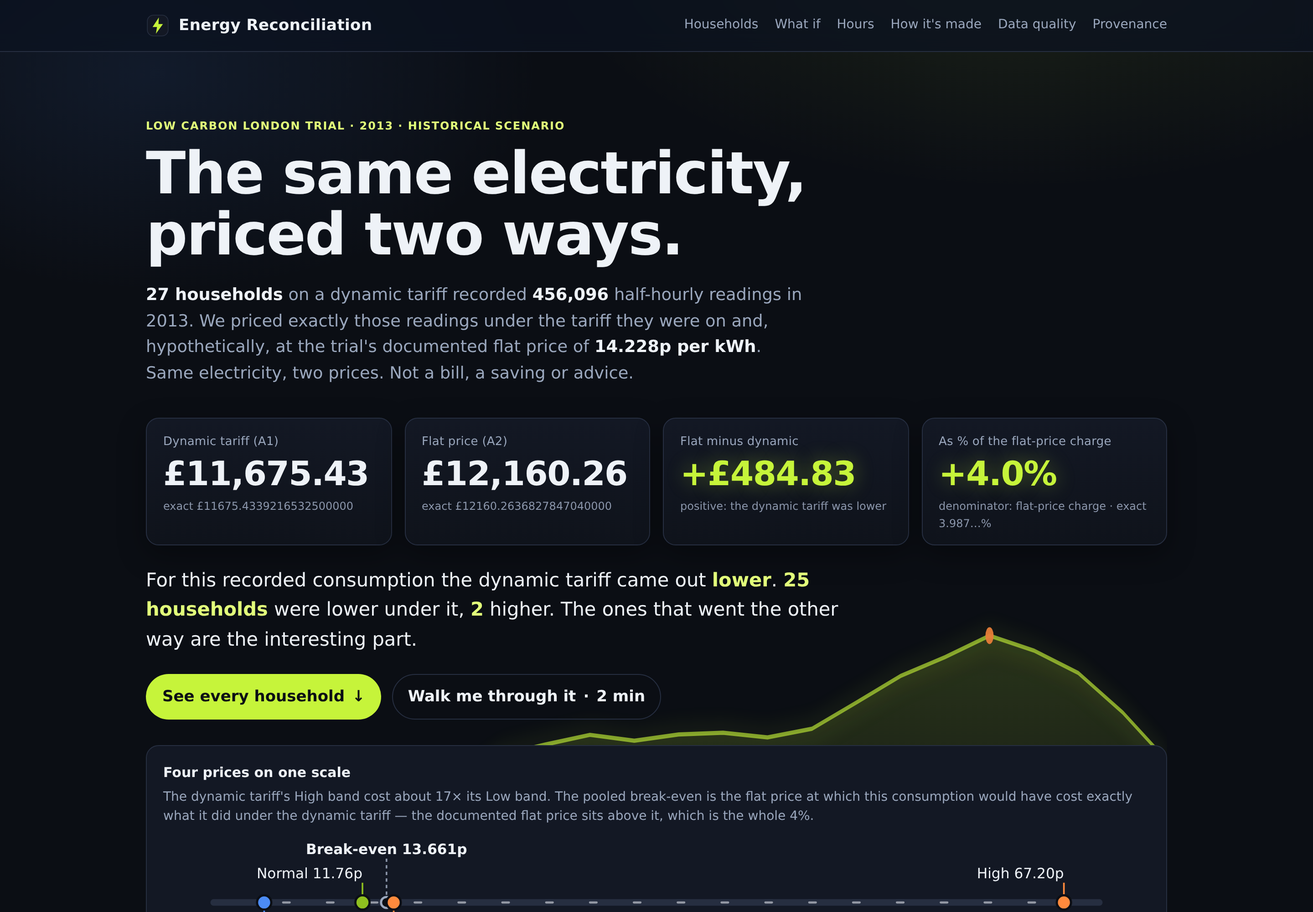
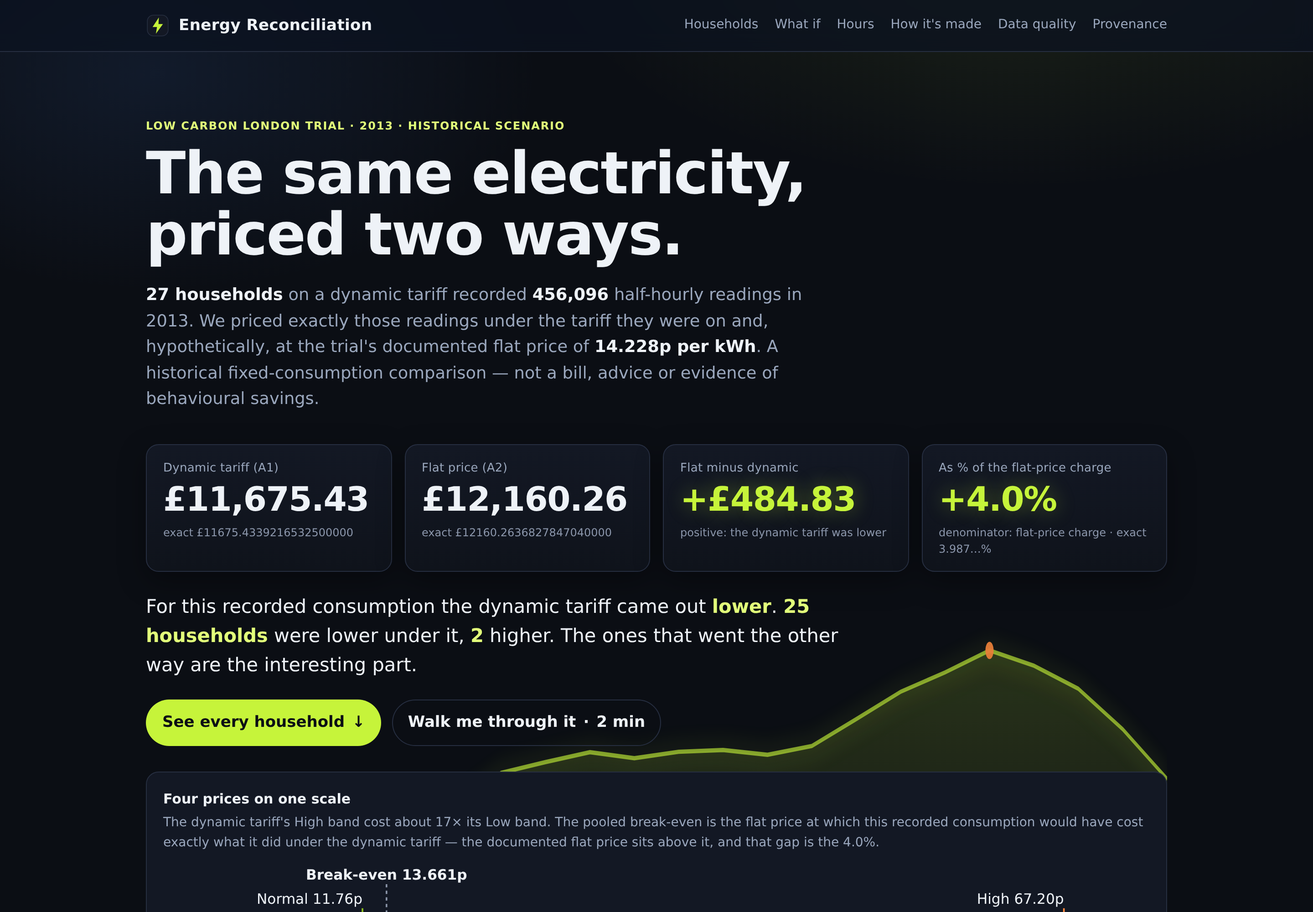
web: say only what the evidence establishes on the public surface
Accuracy pass over the front door's copy, walkthrough, metadata and the
documents that repeat its claims. No figure, bundle byte or calculation
identity changes (bundle sha256 3296b55f… unchanged).

- Clock time: "the evening" is gone. The schedule counts in the bundle show
  High half hours in every timestamp-label hour, concentrated in labels
  17:00 to 22:59 (408 of 788, 51.8%). The sentence is now derived from those
  counts (lib/hours.ts, tested against the committed bundle) and states that
  no timezone or interval convention is applied. Charged kWh is described as
  highest in those label hours, not as an evening peak.
- Whole-zero days: "costs nothing and raises no error" becomes "contributes
  zero consumption-based charge in this scenario; whether a billing system
  would flag the pattern was not investigated". Neighbours are "recorded
  non-zero usable days" (38 of 52 runs, as ANL-004 measures), not "normal
  usage".
- Source-data conditions are "handled explicitly", not "things that would
  silently corrupt" the total.
- Hero limitation: "A historical fixed-consumption comparison — not a bill,
  advice or evidence of behavioural savings", repeated in the page metadata;
  "London households" becomes "Low Carbon London trial households".
- Browser check: the page checks the exported payload against its pinned
  SHA-256 digest; it does not rebuild the result or rerun the build. The card,
  tour step, loading and error states, README, deployment guide and web
[…]

diff --git a/web/src/App.tsx b/web/src/App.tsx
@@ -15,6 +15,7 @@ import { Tour, type TourStep } from "./components/Tour";
 import { useInView, useScrollProgress } from "./hooks";
 import { Insight } from "./components/Insight";
 import { highRank, highShare } from "./lib/households";
+import { highConcentration, labelRange } from "./lib/hours";
 import { integer, money } from "./lib/format";
 
 type State =
@@ -70,12 +71,18 @@ export function Page({ loaded }: { loaded: Loaded }) {
   const o = c.outcomes_under_dynamic;
   const [tour, setTour] = useState(false);
   const [tourRun, setTourRun] = useState(0);
+  // Where the schedule put its High band, by hour of the timestamp label as written. The
+  // sentence is built from the counts, so it can only say what the bundle holds.
+  const hc = highConcentration(bundle.hour_bands);
+  const highHours = hc
+    ? `High-price half hours ${hc.everyHour ? "occurred in every label hour but " : ""}were concentrated in timestamp labels from ${labelRange(hc)}: ${hc.slots} of the schedule's ${hc.total} (${hc.sharePct}%)`
+    : "The schedule's High-price half hours are not summarised here";
   const steps: TourStep[] = [
-    { id: "top", title: "The question", text: `${c.households} households, one year of real readings, two prices. The dynamic tariff came out ${money(Math.abs(c.flat_minus_dynamic.display))} (${c.pct_of_flat.display}%) ${c.flat_minus_dynamic.display > 0 ? "lower" : "higher"} for the electricity they actually used.` },
+    { id: "top", title: "The question", text: `${c.households} households, one year of recorded readings, two prices. On the same recorded consumption the dynamic scenario came out ${money(Math.abs(c.flat_minus_dynamic.display))} (${c.pct_of_flat.display?.toFixed(1) ?? "—"}%) ${c.flat_minus_dynamic.display > 0 ? "lower" : "higher"} than the flat price.` },
     { id: "households", title: "Every household", text: `${o.lower} were lower under the dynamic tariff and ${o.higher} higher. Click any bar, or use the arrow keys, to see where that household's electricity fell.` },
     { id: "what-if", title: "What if", text: "Each household has a break-even flat price. Slide to see how many would have come out ahead at any other flat price — a comparison, not a recalculation." },
-    { id: "hours", title: "The hours", text: "The expensive band clustered in the evening, and so did the electricity. That is timing, not proof of a response." },
-    { id: "pipeline", title: "How it's made", text: "Three million readings, every one charged or excluded with a reason, a ladder that must add up, a sealed build — and this page verifying its own data." },
+    { id: "hours", title: "The hours", text: `${highHours} — label hours as written, no timezone applied. The charged electricity was highest in those hours too. That is timing, not proof of a response.` },
+    { id: "pipeline", title: "How it's made", text: "Three million readings, every one charged or excluded with a reason, a ladder that must add up, a sealed build — and this page checking its exported data against a pinned digest before showing it." },
     { id: "provenance", title: "The small print", text: "Two assumptions, the identity of the build behind every number, the licence, and what this does not show." },
   ];
 
@@ -196,8 +203,9 @@ export function Page({ loaded }: { loaded: Loaded }) {
                   </button>
                 ))}
               <p className="hint">
-                Small in pounds, but real: both paid slightly more under the dynamic tariff because more of their
-                electricity fell in the 67.2p half hours. The dynamic tariff was not cheaper for everyone.
+                Small in pounds, but real in the comparison: both came out slightly higher under the dynamic scenario
+                because more of their electricity fell in the 67.2p half hours. The dynamic tariff was not lower for
+                every household.
               </p>
             </div>
           </div>
@@ -209,7 +217,7 @@ export function Page({ loaded }: { loaded: Loaded }) {
         <Reveal
           id="hours"
           title="Where the expensive half hours were"
-          sub="The dynamic schedule announced each day's bands a day ahead; the High band clustered in the evening. So did the electricity — which is a coincidence of timing in this data, not evidence that anyone responded to the price."
+          sub={`The dynamic schedule announced each day's bands a day ahead. ${highHours} — hours of the label as written, with no timezone or interval convention applied, so this is not a claim about clock time. The charged electricity was highest in those label hours too, which is a coincidence of timing in this data, not evidence that anyone responded to the price.`}
         >
           <HourRibbon hourBands={bundle.hour_bands} />
         </Reveal>
@@ -217,7 +225,7 @@ export function Page({ loaded }: { loaded: Loaded }) {
         <Reveal
           id="pipeline"
           title="How three million readings become one reproducible number"
-          sub="Every reading is either charged or excluded for a stated reason, the ladder has to add up, the build is sealed only when all of its models and tests pass, and this page verifies the data it was given before showing it."
+          sub="Every reading is either charged or excluded for a stated reason, the ladder has to add up, the build is sealed only when all of its models and tests pass, and this page checks the exported data against its pinned digest before showing it."
         >
           <Pipeline bundle={bundle} digest={loaded.digest} />
         </Reveal>
@@ -225,7 +233,7 @@ export function Page({ loaded }: { loaded: Loaded }) {
         <Reveal
           id="quality"
           title="What was found on the way"
-          sub="Getting a tariff number right meant counting the things that would silently corrupt it — and a few things that turned out to be findings in their own right."
+          sub="Getting a tariff number right meant counting the source-data conditions the calculation handles explicitly — and a few things that turned out to be findings in their own right."
         >
           <Quality bundle={bundle} />
         </Reveal>
@@ -259,7 +267,7 @@ export default function App({ base }: { base?: string }) {
       <div className="state wrap" role="status" aria-live="polite">
         <div>
           <div className="spinner" aria-hidden="true" />
-          <p>Loading and verifying the data…</p>
+          <p>Loading the data and checking its digest…</p>
         </div>
       </div>
     );
@@ -268,11 +276,11 @@ export default function App({ base }: { base?: string }) {
     return (
       <div className="state wrap" role="alert">
         <div className="card">
-          <h2 style={{ marginTop: 0 }}>The data could not be verified</h2>
+          <h2 style={{ marginTop: 0 }}>The data did not match its pinned digest</h2>
           <p className="warn">{state.message}</p>
           <p className="hint">
-            Nothing is shown in its place: a number that failed verification is not a number. The published figures are
-            in the <a href="https://github.com/Hammamelsh/energy-reconciliation">repository</a>.
+            Nothing is shown in its place: a figure whose data failed the integrity check is not shown. The published
+            figures are in the <a href="https://github.com/Hammamelsh/energy-reconciliation">repository</a>.
           </p>
         </div>
       </div>

diff --git a/web/src/components/BreakEven.tsx b/web/src/components/BreakEven.tsx
@@ -2,6 +2,7 @@ import type { Comparison } from "../lib/bundle";
 import { countAt } from "../lib/breakeven";
 import { EMBER, LINE, NEUTRAL, VOLT } from "../lib/palette";
 import { pence } from "../lib/format";
+import { useMediaQuery } from "../hooks";
 
 export function BreakEven({
   comparison,
@@ -12,6 +13,7 @@ export function BreakEven({
   value: number;
   onChange: (v: number) => void;
 }) {
+  const compact = useMediaQuery("(max-width: 700px)");
   const hh = comparison.per_household;
   const flat = Number(comparison.flat_price.pence_per_kwh);
   const pooled = comparison.breakeven_flat_price.display ?? flat;
@@ -30,8 +32,8 @@ export function BreakEven({
       </p>
       <label htmlFor="flat-slider" className="big">
         At a flat price of <span className="ember">{value.toFixed(3)}p</span> per kWh,{" "}
-        <span className="volt">{counts.lower}</span> of {hh.length} households would have paid less on the
-        dynamic tariff, {counts.higher} more{counts.equal ? `, ${counts.equal} the same` : ""}.
+        <span className="volt">{counts.lower}</span> of {hh.length} households come out lower under the dynamic
+        scenario, {counts.higher} higher{counts.equal ? `, ${counts.equal} the same` : ""}.
       </label>
       <input
         id="flat-slider"
@@ -45,17 +47,19 @@ export function BreakEven({
         aria-valuetext={`${value.toFixed(3)} pence per kWh: ${counts.lower} lower, ${counts.higher} higher`}
       />
       <div className="ticks" aria-hidden="true">
-        <svg viewBox={`0 0 ${W} 46`}>
+        {/* The value label sits on its own row under the reference circles, so it cannot
+            overlap them when the slider rests exactly on a preset. */}
+        <svg viewBox={`0 0 ${W} 58`}>
           <line x1={10} x2={W - 10} y1={20} y2={20} stroke={LINE} strokeWidth={2} />
           {evens.map((p, i) => (
             <line key={i} x1={x(p)} x2={x(p)} y1={12} y2={28} stroke={p < value ? VOLT : p > value ? EMBER : NEUTRAL} strokeWidth={2} />
           ))}
           <line x1={x(value)} x2={x(value)} y1={4} y2={36} stroke="#fff" strokeWidth={2} />
-          <text x={x(value)} y={45} fontSize={11} fill="#fff" textAnchor="middle">
-            {value.toFixed(3)}p
-          </text>
           <circle cx={x(flat)} cy={34} r={4} fill="none" stroke={EMBER} strokeWidth={2} />
           <circle cx={x(pooled)} cy={34} r={4} fill="none" stroke={NEUTRAL} strokeWidth={2} />
+          <text x={x(value)} y={compact ? 56 : 54} fontSize={compact ? 20 : 11} fill="#fff" textAnchor="middle">
+            {value.toFixed(3)}p
+          </text>
         </svg>
       </div>
       <div className="toolbar">

diff --git a/web/index.html b/web/index.html
@@ -8,7 +8,7 @@
     <title>The same electricity, priced two ways — Energy Reconciliation</title>
     <meta
       name="description"
-      content="27 London households' 2013 half-hourly readings priced under the dynamic tariff they were on and at the trial's flat price: a 4.0% difference, 25 lower and 2 higher — with every household, its coverage, and the evidence behind the result."
+      content="456,096 half-hourly readings from 27 Low Carbon London trial households, priced under the dynamic tariff they were on and hypothetically at the trial's flat price: 4.0% lower under the dynamic scenario, 25 households lower and 2 higher. A historical fixed-consumption comparison, not a bill — every household shown, with its coverage and the evidence behind the result."
     />
     <link rel="icon" href="/favicon.svg" type="image/svg+xml" />
     <link rel="canonical" href="%VITE_SITE_URL%/" />
@@ -17,7 +17,7 @@
     <meta property="og:title" content="The same electricity, priced two ways" />
     <meta
       property="og:description"
-      content="One year of real smart-meter readings from 27 London households, priced under a dynamic tariff and at a flat price. Historical scenario, not a bill — every household shown."
+      content="One year of recorded smart-meter readings from 27 Low Carbon London trial households, priced under a dynamic tariff and at a flat price. A historical fixed-consumption comparison, not a bill — every household shown."
     />
     <meta property="og:url" content="%VITE_SITE_URL%/" />
     <meta property="og:image" content="%VITE_SITE_URL%/og.png" />
@@ -32,7 +32,7 @@
         "@context": "https://schema.org",
         "@type": "WebPage",
         "name": "The same electricity, priced two ways",
-        "description": "27 London households' 2013 half-hourly readings priced under a dynamic tariff and at a flat price. Historical scenario, not a bill.",
+        "description": "2013 half-hourly readings from 27 Low Carbon London trial households, priced under a dynamic tariff and at a flat price. A historical fixed-consumption comparison, not a bill.",
         "isBasedOn": {
           "@type": "Dataset",
           "name": "SmartMeter Energy Consumption Data in London Households",

diff --git a/web/src/components/Quality.tsx b/web/src/components/Quality.tsx
@@ -38,12 +38,15 @@ export function Quality({ bundle }: { bundle: Bundle }) {
             <div className="row"><span>households affected</span><b>{z.households_with_zero_days} of {z.households}</b></div>
             <div className="row"><span>runs of consecutive zero days</span><b>{z.runs}</b></div>
             <div className="row"><span>runs of four weeks or more</span><b>{z.runs_28_days_or_more}</b></div>
-            <div className="row"><span>runs with normal usage on both sides</span><b>{z.runs_bounded_by_nonzero_usable_days} of {z.runs}</b></div>
+            <div className="row"><span>runs bounded on both sides by recorded non-zero usable days</span><b>{z.runs_bounded_by_nonzero_usable_days} of {z.runs}</b></div>
             <div className="row"><span>longest run</span><b>{z.longest_run_days} days</b></div>
           </div>
           <p className="hint">
-            A day of exact zeros costs nothing and raises no error — which is why it is worth finding. Why the days are
-            zero is {z.cause}. These households are on the flat rate; none is in the tariff comparison.
+            A day of recorded zeros contributes zero consumption-based charge in this scenario; whether a billing system
+            would flag the pattern was not investigated. Why the days are zero is {z.cause}.{" "}
+            {z.runs_bounded_by_nonzero_usable_days} of {z.runs} runs were immediately bounded on both sides by recorded
+            non-zero usable days. All {z.households_with_zero_days} households are in the flat-rate group; none is in
+            the tariff comparison.
           </p>
         </div>
       )}
@@ -69,7 +72,8 @@ export function Quality({ bundle }: { bundle: Bundle }) {
             </div>
             <p className="hint">
               {f.holdout.scored_predictions_per_model} scored predictions per model. Every prediction uses only data dated on or
-              before its origin. A retrospective, clean-data cohort — a floor for accuracy, not a forecast product.
+              before its origin. A retrospective benchmark on clean runs — not an operational evaluation, not a forecast
+              product.
             </p>
           </>
         ) : (

diff --git a/web/src/components/HouseholdDetail.tsx b/web/src/components/HouseholdDetail.tsx
@@ -74,7 +74,7 @@ export function HouseholdDetail({ household: h, flatPence, highRank, total }: { 
           <span key={b.band} className={`band-${b.band}`} style={{ width: `${b.consumption_share_pct}%` }} title={`${b.band}: ${b.consumption_share_pct}% of kWh`} />
         ))}
       </div>
-      <div style={{ fontSize: 13, color: "var(--muted)" }}>What it paid for, by price band</div>
+      <div style={{ fontSize: 13, color: "var(--muted)" }}>Where its scenario charge fell, by price band</div>
       <div className="stack" role="img" aria-label={`Charge share by band: ${bands.map((b) => `${b.band} ${b.charge_share_pct}%`).join(", ")}`}>
         {bands.map((b) => (
           <span key={b.band} className={`band-${b.band}`} style={{ width: `${b.charge_share_pct}%` }} title={`${b.band}: ${b.charge_share_pct}% of charge`} />
@@ -94,11 +94,11 @@ export function HouseholdDetail({ household: h, flatPence, highRank, total }: { 
           const share = high?.consumption_share_pct ?? 0;
           const chargeShare = high?.charge_share_pct ?? 0;
           const pos = highRank === 1 ? "the largest of any household" : highRank === total ? "the smallest of any household" : `rank ${highRank} of ${total}`;
-          return `${share.toFixed(1)}% of its electricity fell in High-price half hours — ${pos} — and that ${share.toFixed(1)}% became ${chargeShare.toFixed(1)}% of what it paid. ${
+          return `${share.toFixed(1)}% of its electricity fell in High-price half hours — ${pos} — and that ${share.toFixed(1)}% became ${chargeShare.toFixed(1)}% of its scenario charge. ${
             h.outcome_under_dynamic === "higher"
-              ? "Enough to tip it: the flat price would have been cheaper for this household."
+              ? "Enough to tip it: on this recorded consumption the flat price comes out lower."
               : h.outcome_under_dynamic === "lower"
-                ? "Not enough to outweigh the cheap Low and Normal hours, so the dynamic tariff was lower."
+                ? "Not enough to outweigh the cheaper Low and Normal half hours, so the dynamic scenario comes out lower."
                 : "Exactly balanced."
           }`;
         })()}

diff --git a/web/src/components/Pipeline.tsx b/web/src/components/Pipeline.tsx
@@ -53,7 +53,7 @@ export function Pipeline({ bundle, digest }: { bundle: Bundle; digest: string })
         <div className="card">
           <h3>Built and sealed</h3>
           <div className="mini">
-            <div className="row"><span>dbt build</span><b>{p.required_nodes_total} of {p.required_nodes_total} nodes</b></div>
+            <div className="row"><span>required build</span><b>{p.required_nodes_total} nodes, all passed</b></div>
             <div className="row"><span>run</span><b className="mono">{String(p.run_id).slice(0, 22)}…</b></div>
             <div className="row"><span>published as</span><b>{String(p.version)}</b></div>
             <div className="row"><span>version file sha256</span><b className="mono">{shortDigest(String(p.file_sha256))}</b></div>
@@ -68,13 +68,17 @@ export function Pipeline({ bundle, digest }: { bundle: Bundle; digest: string })
           </p>
         </div>
         <div className="card">
-          <h3>Verified in your browser</h3>
+          <h3>Checked in your browser</h3>
           <div className="mini">
             <div className="row"><span>this page's data</span><b className="ok">sha256 matched ✓</b></div>
             <div className="row"><span>bundle digest</span><b className="mono">{shortDigest(digest)}</b></div>
             <div className="row"><span>source</span><b>publication {String(p.version)}</b></div>
           </div>
-          <p className="hint">Your browser hashed the data file it received and compared it with the pinned manifest before showing a number.</p>
+          <p className="hint">
+            Your browser hashed the exported data file it received and compared it with the pinned SHA-256 digest before
+            showing a number. That is an integrity check on the payload, with its provenance traceable to the sealed
+            build — it does not rebuild the result from the raw archive or rerun the build.
+          </p>
         </div>
       </div>
     </div>

diff --git a/web/src/lib/hours.ts b/web/src/lib/hours.ts
@@ -1,0 +1,46 @@
+import type { HourBands } from "./bundle";
+
+/**
+ * Where the schedule placed its High band, by hour of the timestamp label as written. Counts
+ * only: no timezone or interval convention is applied, so these are label hours, not clock time.
+ */
+export type HighConcentration = {
+  /** First and last label hour of the run holding the most High half hours. */
+  from: number;
+  to: number;
+  /** High half hours in that run, and in the whole schedule. */
+  slots: number;
+  total: number;
+  sharePct: number;
+  /** Whether the run is one unbroken range of hours. */
+  contiguous: boolean;
+  /** Whether every label hour holds at least one High half hour. */
+  everyHour: boolean;
+};
+
+export function highConcentration(hourBands: HourBands): HighConcentration | null {
+  const high = hourBands.schedule_slots_by_band_and_hour.High ?? [];
+  const total = high.reduce((s, v) => s + v, 0);
+  if (total === 0) return null;
+  const max = Math.max(...high);
+  const hours = high.map((v, i) => (v === max ? i : -1)).filter((i) => i >= 0);
+  const from = hours[0];
+  const to = hours[hours.length - 1];
+  const slots = hours.reduce((s, h) => s + high[h], 0);
+  return {
+    from,
+    to,
+    slots,
+    total,
+    sharePct: Math.round((slots / total) * 1000) / 10,
+    contiguous: to - from + 1 === hours.length,
+    everyHour: high.every((v) => v > 0),
+  };
+}
+
+const two = (n: number) => String(n).padStart(2, "0");
+
+/** "17:00 to 22:59" — the label-hour range, stated as labels. */
+export function labelRange(c: HighConcentration): string {
+  return `${two(c.from)}:00 to ${two(c.to)}:59`;
+}

diff --git a/web/src/components/HourRibbon.tsx b/web/src/components/HourRibbon.tsx
@@ -21,15 +21,15 @@ export function HourRibbon({ hourBands }: { hourBands: HourBands }) {
   const peakHours = high.map((v, i) => ({ v, i })).filter((x) => x.v === maxHigh).map((x) => x.i);
   return (
     <div className="card ribbon">
-      <h3>When the expensive band fell — and when the electricity was used</h3>
+      <h3>Which label hours the expensive band fell in — and when the electricity was used</h3>
       <p className="sub" style={{ marginBottom: 10 }}>
-        Top: how many of the year's High-price half hours the schedule placed in each hour of the day. Bottom: charged
-        kWh by hour across all 27 households, coloured by the band it was priced in.
+        Top: how many of the schedule's High-price half hours fell in each hour of the timestamp label. Bottom: charged
+        kWh by label hour across all 27 households, coloured by the band it was priced in.
       </p>
       <svg
         viewBox={`0 0 ${W} 250`}
         role="img"
-        aria-label={`Schedule High-band slots by hour of day, peaking at ${maxHigh} in hours ${peakHours.join(", ")}; and charged kWh by hour and band.`}
+        aria-label={`Schedule High-band half hours by hour of the timestamp label, peaking at ${maxHigh} in label hours ${peakHours.join(", ")}; and charged kWh by label hour and band. Label hours as written; no timezone applied.`}
       >
         <text x={compact ? 8 : 0} y={16} fontSize={fs} fill={MUTED}>
           High-price half hours in the schedule

diff --git a/web/src/test/hours.test.ts b/web/src/test/hours.test.ts
@@ -1,0 +1,26 @@
+import { describe, expect, it } from "vitest";
+import { readFileSync } from "node:fs";
+import { join } from "node:path";
+import type { Bundle } from "../lib/bundle";
+import { highConcentration, labelRange } from "../lib/hours";
+
+const bundle = JSON.parse(readFileSync(join(process.cwd(), "public/data/bundle.json"), "utf8")) as Bundle;
+
+describe("the High-band label-hour statement", () => {
+  it("is derived from the schedule counts in the committed bundle", () => {
+    const c = highConcentration(bundle.hour_bands);
+    expect(c).not.toBeNull();
+    expect(c!.from).toBe(17);
+    expect(c!.to).toBe(22);
+    expect(c!.contiguous).toBe(true);
+    expect(c!.everyHour).toBe(true);
+    expect(c!.slots).toBe(408);
+    expect(c!.total).toBe(788);
+    expect(c!.sharePct).toBe(51.8);
+    expect(labelRange(c!)).toBe("17:00 to 22:59");
+  });
+
+  it("returns null when the schedule has no High band", () => {
+    expect(highConcentration({ ...bundle.hour_bands, schedule_slots_by_band_and_hour: { High: [] } })).toBeNull();
+  });
+});

diff --git a/web/src/components/PriceLadder.tsx b/web/src/components/PriceLadder.tsx
@@ -29,8 +29,9 @@ export function PriceLadder({ bundle }: { bundle: Bundle }) {
       <h2>Four prices on one scale</h2>
       <p>
         The dynamic tariff's High band cost about {ratio}× its Low band. The pooled break-even is the flat price
-        at which this consumption would have cost exactly what it did under the dynamic tariff — the documented
-        flat price sits {flat > even ? "above" : "below"} it, which is the whole 4%.
+        at which this recorded consumption would have cost exactly what it did under the dynamic tariff — the
+        documented flat price sits {flat > even ? "above" : "below"} it, and that gap is the{" "}
+        {bundle.comparison.pct_of_flat.display?.toFixed(1) ?? "—"}%.
       </p>
     </>
   );

diff --git a/web/src/test/ui.test.tsx b/web/src/test/ui.test.tsx
@@ -74,7 +74,7 @@ describe("the page", () => {
     expect(window.location.search).toMatch(/household=MAC/);
   });
 
-  it("shows a verified error state when the data cannot be trusted", async () => {
+  it("refuses a tampered bundle and shows the integrity-check error state", async () => {
     vi.stubGlobal(
       "fetch",
       vi.fn(async (url: string) => {
@@ -85,7 +85,7 @@ describe("the page", () => {
       }),
     );
     render(<App base="data/" />);
-    expect(await screen.findByRole("alert")).toHaveTextContent(/could not be verified/);
+    expect(await screen.findByRole("alert")).toHaveTextContent(/did not match its pinned digest/);
     vi.unstubAllGlobals();
   });
 

diff --git a/web/src/components/Hero.tsx b/web/src/components/Hero.tsx
@@ -49,7 +49,7 @@ export function Hero({ bundle, onTour }: { bundle: Bundle; onTour: () => void })
         <strong>{integer(c.charged_readings)}</strong> half-hourly readings in {year}. We priced
         exactly those readings under the tariff they were on and, hypothetically, at the trial's
         documented flat price of <strong>{c.flat_price.pence_per_kwh.replace(/0+$/, "")}p per kWh</strong>.
-        Same electricity, two prices. Not a bill, a saving or advice.
+        A historical fixed-consumption comparison — not a bill, advice or evidence of behavioural savings.
       </p>
 
       <div className="stats" aria-live="off">
